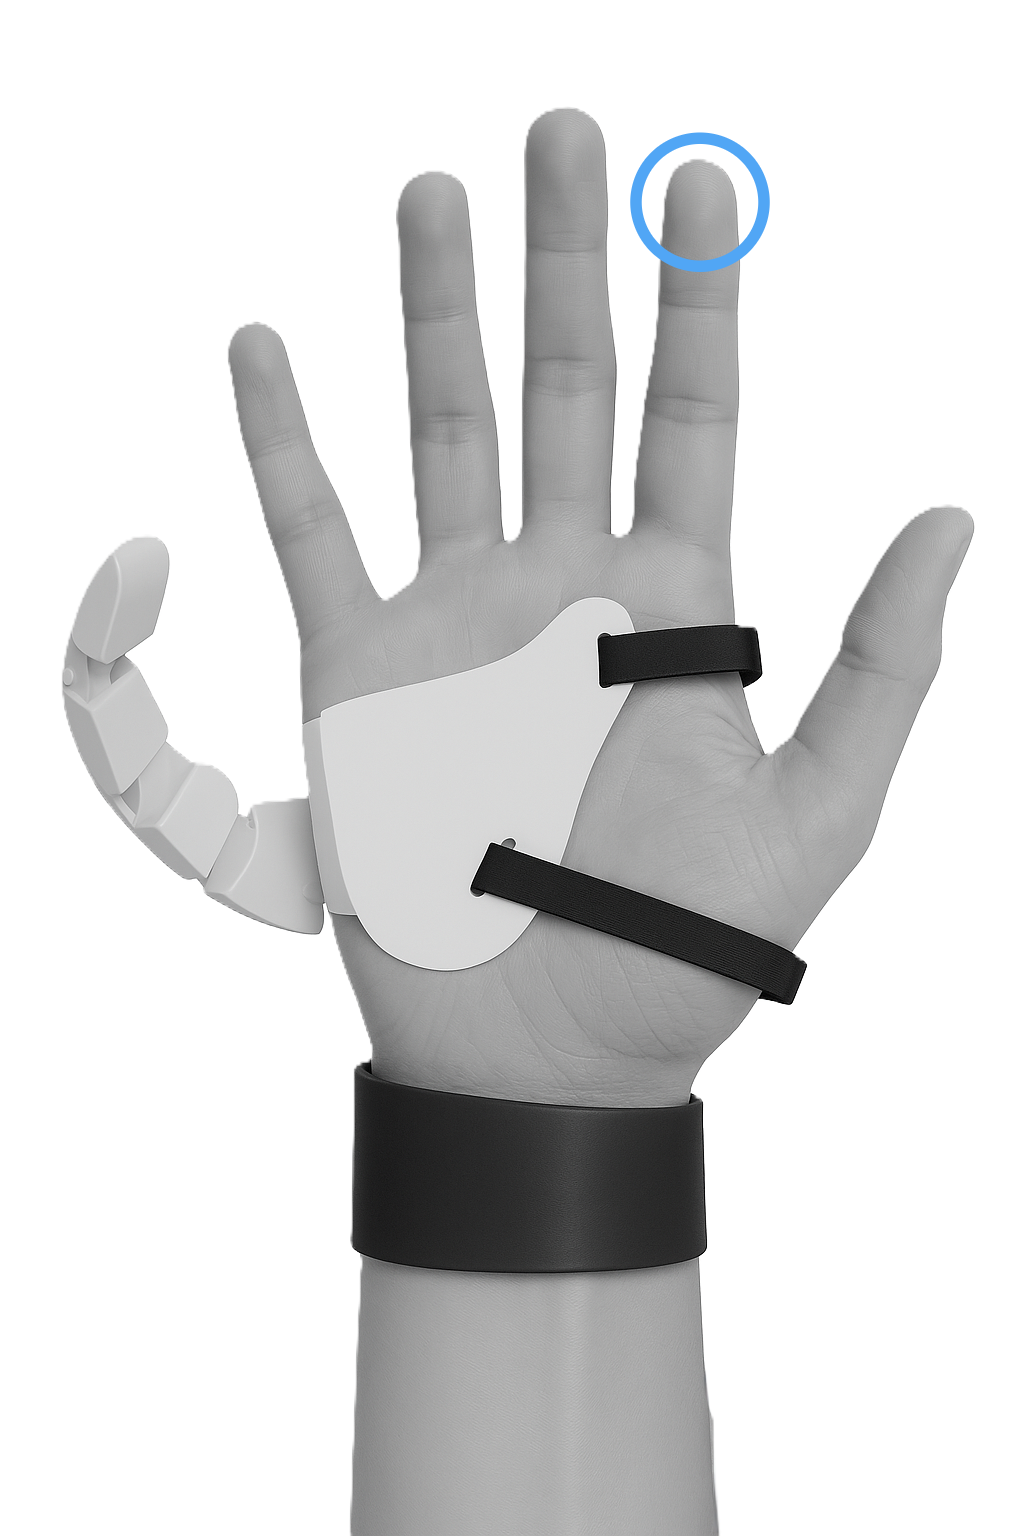
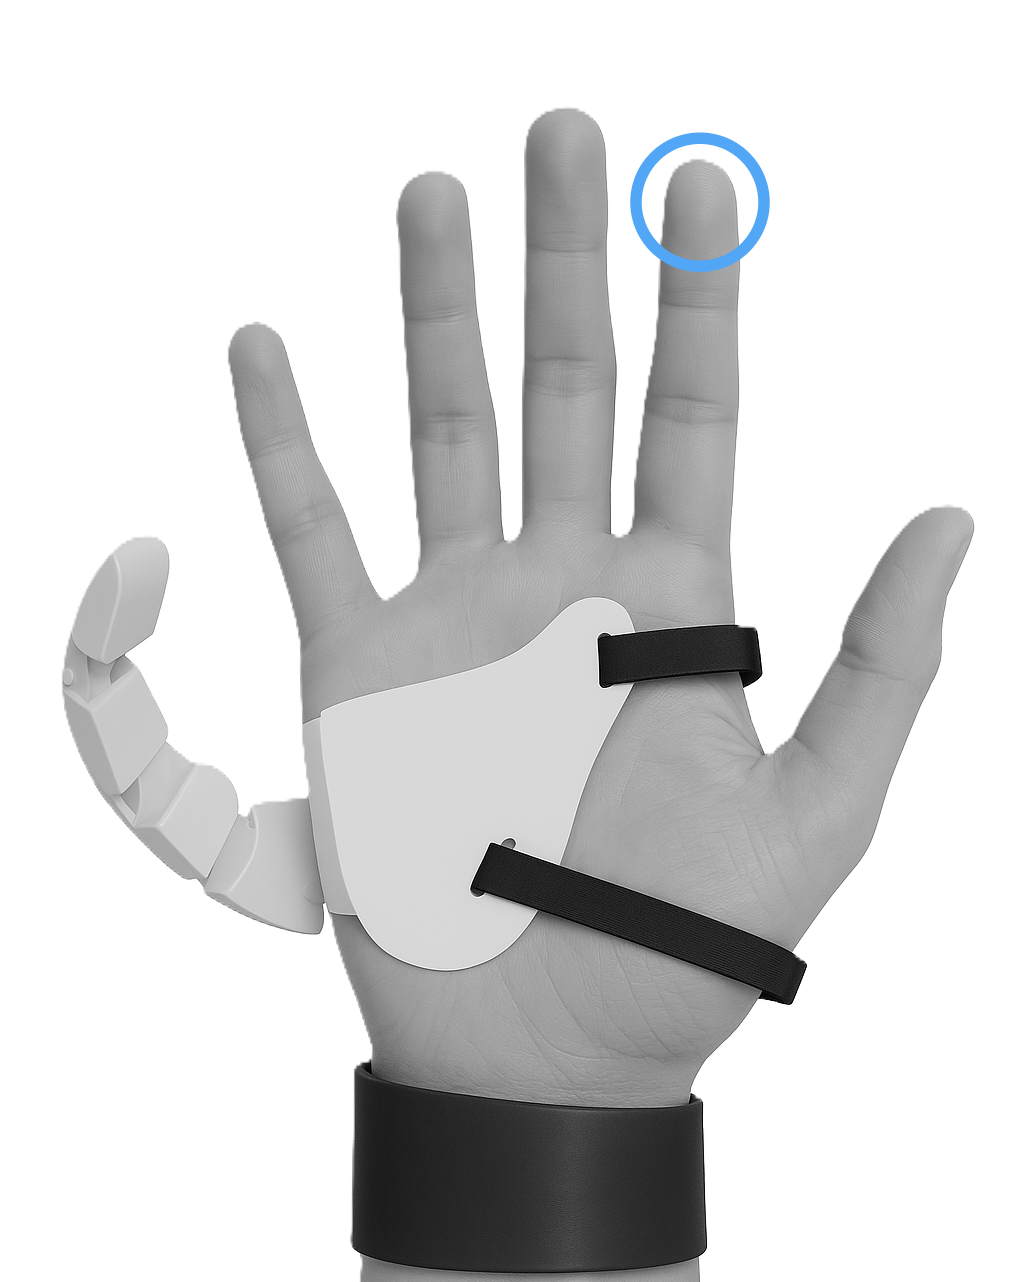
resized image to fit screen

diff --git a/experiments/FMRI/six-fingers/showImageBlockWindow.m b/experiments/FMRI/six-fingers/showImageBlockWindow.m
@@ -11,6 +11,9 @@ function [startTime, endTime] = showImageBlockWindow(imagePath)
         % Load image
         try
             imgMatrix = imread(imagePath);
+
+            scaleFactor = 0.8;
+            imgMatrix = imresize(imgMatrix, scaleFactor);
         catch
             error('Could not load image: %s', imagePath);
         end
